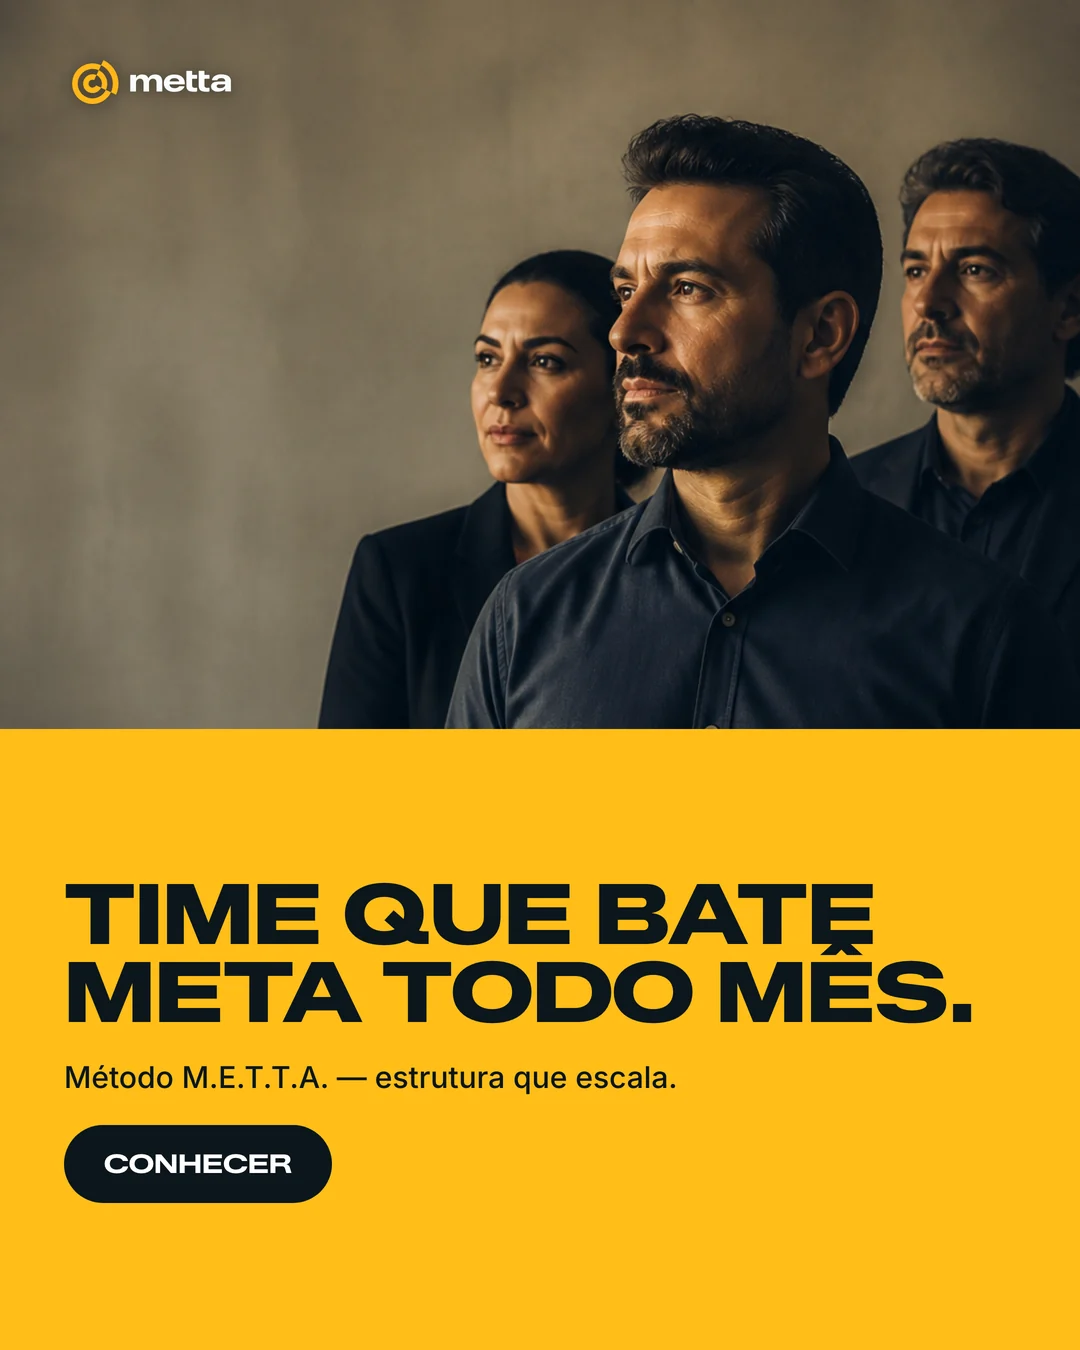
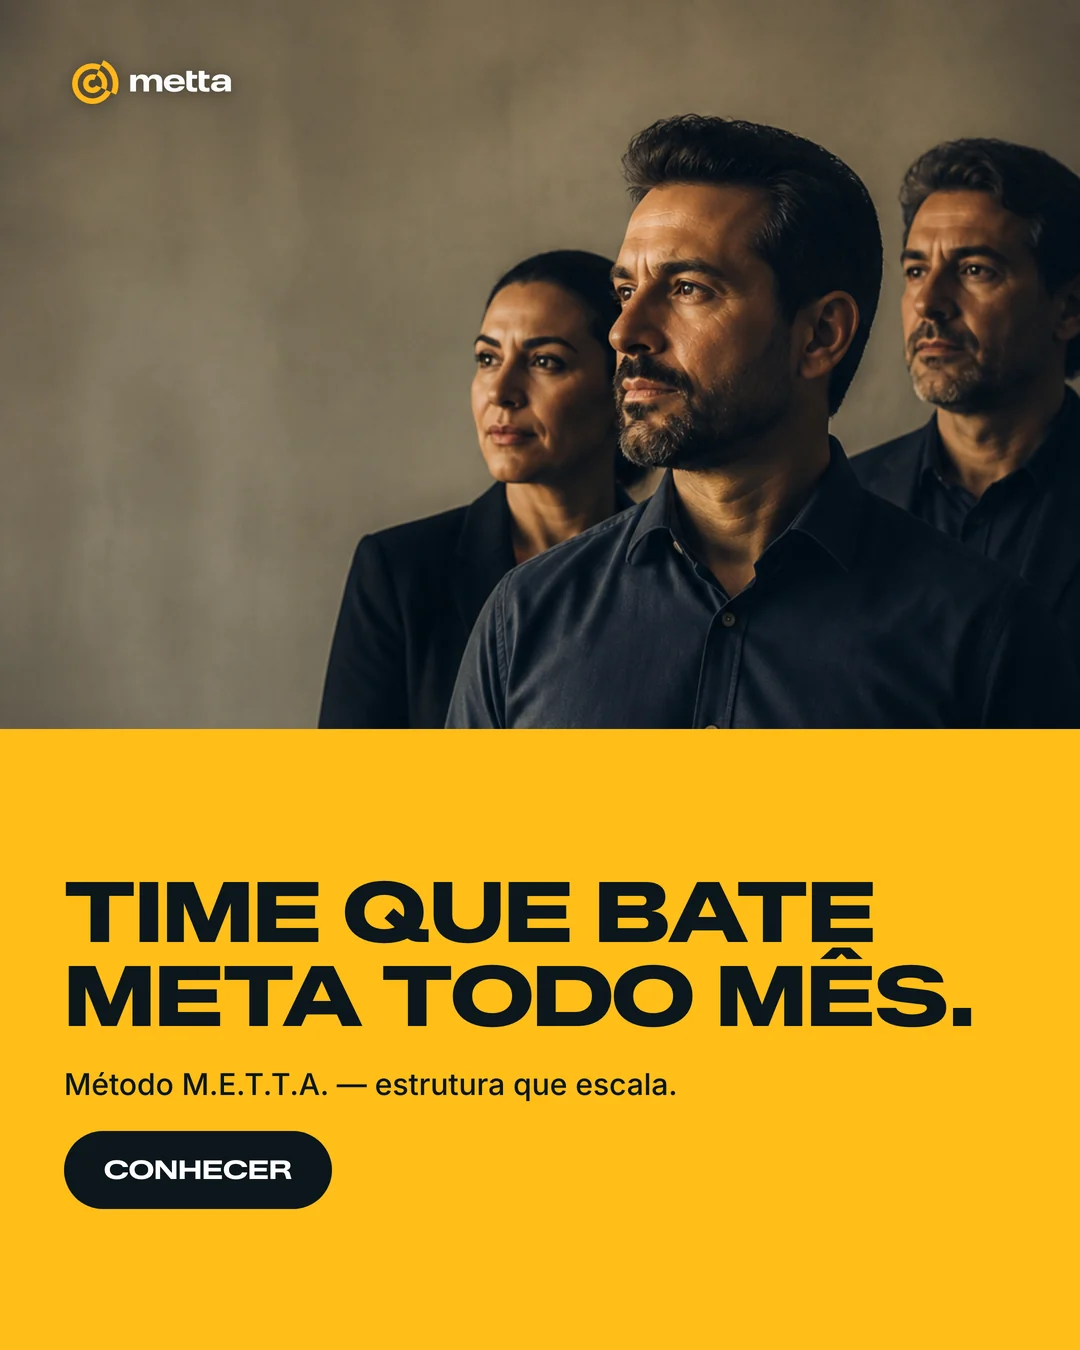
fix(motor+picker): acento clipando (line-height) + previews corrigidos
Bug de raiz: .t-head tinha line-height .92 (super apertado), fazendo
diacríticos UPPER da linha de baixo (Ê/Ã/Õ) colidirem na linha de cima —
"BATĘ", "LIDERAÃ", til de OPERAÇÃO sobrepondo. Comum em PT. Ajustado pra
1.0 (menor valor que dá o ar mínimo mantendo o look apertado; o auto-fit
reajusta o tamanho). Afeta toda peça, não só previews.

Previews:
- yellow-bloco / yellow-split: re-renderizados, acento limpo.
- news-card: foto no crop certo (center 22%) pro rosto não ser cortado
  pelo scrim da faixa.
- d: agora usa o creative feito à mão (babá) em vez do gerado.
- c/yellow-frame re-renderizados com o line-height novo.
- yellow-objeto: marcado "Em breve" (precisa de objeto sobre amarelo
  chapado — asset que só vem no banco curado da Fase 1).

Changed region(s): [[0.0611, 0.6533, 0.8861, 0.9022]]

diff --git a/source/embed/criar.html b/source/embed/criar.html
@@ -1152,7 +1152,7 @@ let currentStep = 'brand';
 // Ordem: do mais usado/robusto pro mais específico.
 const STYLES_METTA = [
   { id: 'YELLOW-BLOCO',                  label: 'Bloco amarelo + foto pessoa',       desc: 'Bloco amarelo central com headline + bullets, foto pessoa direita bleed corner. Convite institucional com prova social via logo bar.', usaImagem: true,  formatos: ['feed','ad-story'], previewSrc: '/assets/style-previews/metta/yellow-bloco.webp' },
-  { id: 'YELLOW-OBJETO',                 label: 'Objeto 3D flutuante amarelo',       desc: 'Objeto-conceito em render 3D estilizado (clay/matte), flutuando sobre fundo amarelo chapado. Metáfora leve, editorial contemporâneo.', usaImagem: true,  formatos: ['feed','ad-story'], previewSrc: '/assets/style-previews/metta/yellow-objeto.webp' },
+  { id: 'YELLOW-OBJETO',                 label: 'Objeto 3D flutuante amarelo',       desc: 'Objeto-conceito em render 3D estilizado (clay/matte), flutuando sobre fundo amarelo chapado. Metáfora leve, editorial contemporâneo.', usaImagem: true,  formatos: ['feed','ad-story'], comingSoon: true, previewSrc: '/assets/style-previews/metta/yellow-objeto.webp' },
   { id: 'A-headline-foto-dark',          label: 'Headline + foto pessoa dark',       desc: 'Fundo escuro, headline grande UPPER + foto pessoa âncora à direita. Caso nominal ou prova editorial.',                              usaImagem: true,  formatos: ['feed','ad-story'], previewSrc: '/assets/style-previews/metta/a.webp' },
   { id: 'D-foto-fullbleed-overlay',      label: 'Foto fullbleed com overlay',        desc: 'Foto ocupa canvas inteiro + overlay escuro pra legibilidade do headline em baixo. Imersão visual.',                                      usaImagem: true,  formatos: ['feed','ad-story'], previewSrc: '/assets/style-previews/metta/d.webp' },
   { id: 'C-tipografia-pura-dark',        label: 'Tipografia pura dark',              desc: 'Fundo escuro, sem imagem. Headline gigante UPPER + accent yellow em palavras-chave. Frase de impacto isolada.',                          usaImagem: false, formatos: ['feed'], previewSrc: '/assets/style-previews/metta/c.webp' },

diff --git a/source/ad-blueprints/_engine.css b/source/ad-blueprints/_engine.css
@@ -65,7 +65,10 @@ button { all: unset; }
 }
 .t-head {
   font-family: var(--m-display); font-weight: 900; font-variation-settings: 'wght' 900;
-  font-size: 84px; line-height: .92; letter-spacing: -.01em; text-transform: uppercase;
+  /* line-height 1.0 (era .92): .92 clipava diacríticos UPPER (Ê/Ã/Õ) da linha
+     de baixo na linha de cima — bug comum em PT. 1.0 dá o ar mínimo mantendo
+     o look apertado; o auto-fit (fitHead) reajusta o tamanho pra caber. */
+  font-size: 84px; line-height: 1.0; letter-spacing: -.01em; text-transform: uppercase;
   color: var(--fg); text-wrap: balance;
 }
 .t-head .hi { color: var(--accent); }
